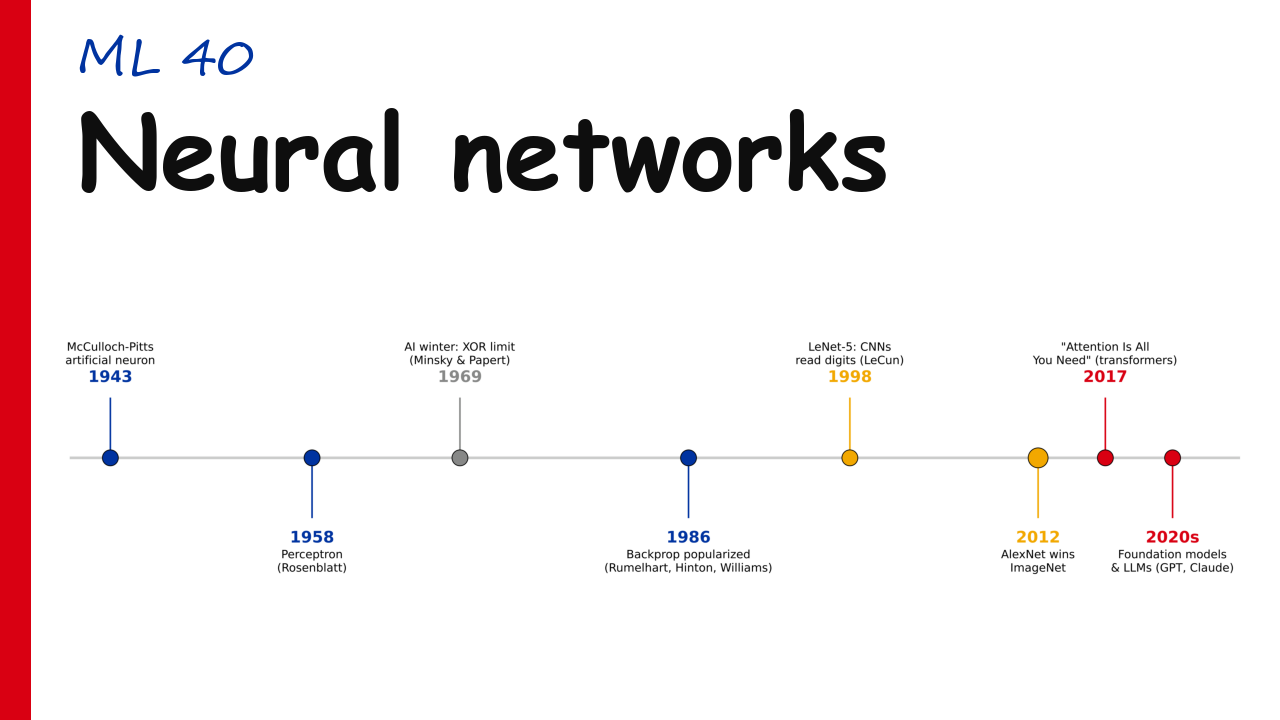
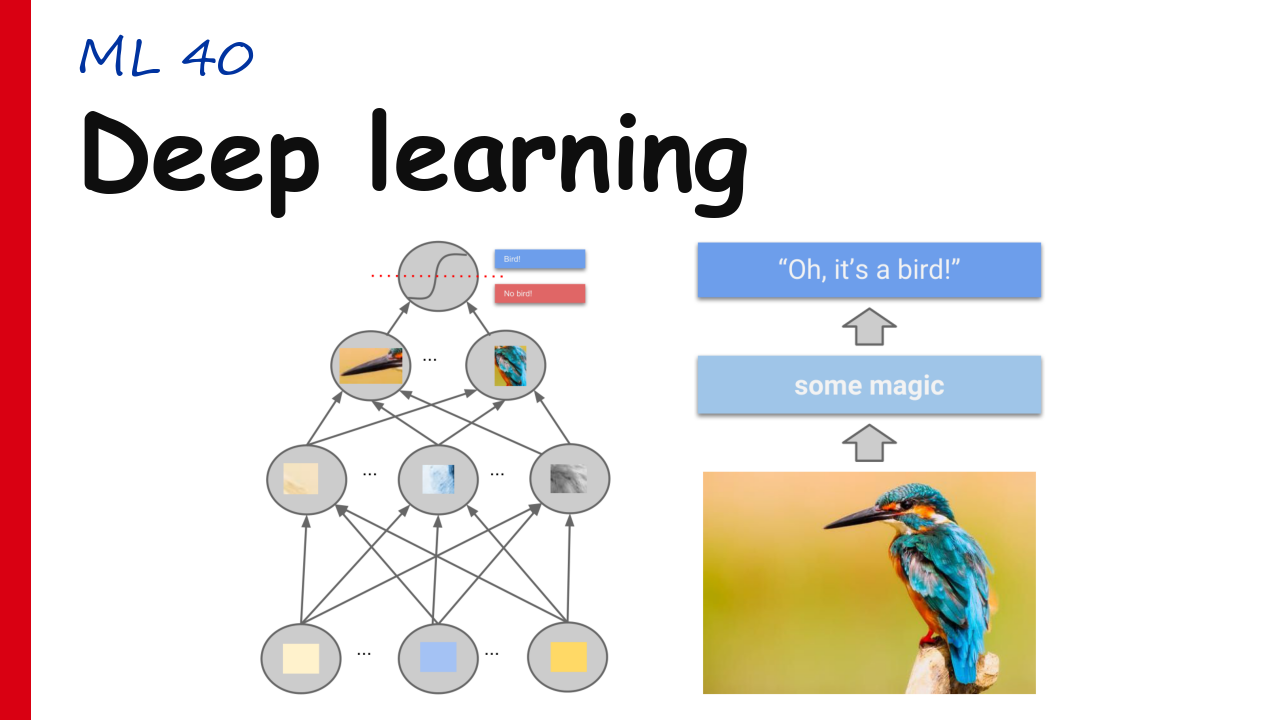
Rework ML40 and ML41 thumbnails from the LMU slides, retitle both
User-requested. ML40 now shows the LMU "image classification with neural
networks" slide (lmu_src/01_introduction.pdf page 7, the last build of a
four-page animation): the layered network with bird-part detectors next to
the photo -> "some magic" -> "Oh, it's a bird!" column. Title "Deep
learning".

ML41 now shows a plain MLP diagram from the same LMU source
(02_multilayer-FNNs.pdf page 6), with the worked input vector and footer
cropped off. Title "From neuron to network".

split_figure_panels.py gains --page, since borrowed slide decks keep their
figures past page 1. The previous timeline and two-moons assets stay in
thumbnails/assets/ as documented alternatives.

diff --git a/scripts/make_thumbnails_final.py b/scripts/make_thumbnails_final.py
@@ -1369,35 +1369,39 @@ def draw_ml39_photo_map(fig, bbox):
 
 
 def draw_ml40_history(fig, bbox):
-    """ML 40 / neural-networks intro + history (lecture): the chapter's own
-    timeline fig/dl_history.pdf - McCulloch-Pitts 1943 through perceptron, the
-    XOR winter, backprop, LeNet, AlexNet, attention, to foundation models - with
-    its title band and year axis cropped off (split_figure_panels.py,
-    --crop-top/--crop-bottom 0.10).
+    """ML 40 / neural-networks intro + history (lecture): the LMU "image
+    classification with neural networks" slide the user picked
+    (lmu_src/01_introduction.pdf, page 7 - the last build of a four-page
+    animation, the one with image patches in every node). The layered network
+    whose units detect ever larger bird parts, next to the photo -> "some
+    magic" -> "Oh, it's a bird!" column: the representation-learning idea the
+    lecture opens with.
 
-    At aspect ~5 it is width-limited well before max_h binds, so it fills the
-    band edge to edge as a ribbon ~0.33 tall. The small event labels do not
-    survive thumbnail scale, but the coloured dots and bold years carry it;
-    lift centres the ribbon in the space under the title."""
-    _draw_image_row(fig, bbox, ["ml40_history_1.png"], max_h=0.60, lift=0.15)
+    Slide title, the Bengio quote and the footer are cropped off
+    (split_figure_panels.py --page 7 --crop-top 0.34 --crop-bottom 0.06); the
+    gutter scan then splits the two illustrations. Both are portrait (~0.77),
+    so the row is height-bound and cannot fill the band - pushed as tall as the
+    title allows instead.
+
+    Previous choice kept as an asset: ml40_history_1.png, the chapter's own
+    1943-2020s timeline (fig/dl_history.pdf)."""
+    _draw_image_row(fig, bbox, ["ml40_lmu_1.png", "ml40_lmu_2.png"],
+                    gap=0.06, max_h=0.64, lift=0.0)
 
 
 def draw_ml41_hidden_layers(fig, bbox):
-    """ML 41 / from one neuron to a multilayer net (lecture): the chapter's own
-    two-moons pair, fig/two_moons_logreg.pdf and fig/two_moons_mlp.pdf - one
-    straight cut that cannot separate the moons next to the bent boundary a
-    hidden layer buys. That contrast is the lecture's whole argument, and it is
-    already in flag red and blue. Panel titles (which carry train accuracy)
-    cropped off with split_figure_panels.py --crop-top 0.14.
+    """ML 41 / from one neuron to a multilayer net (lecture): a plain MLP
+    diagram - three inputs, four hidden layers, three outputs - from the LMU
+    deck the chapter draws on (lmu_src/02_multilayer-FNNs.pdf, page 6), picked
+    by the user so ML40 and ML41 share one visual source. Slide title cropped
+    above; the worked input vector x = (7, 1, -4) and the footer cropped below
+    (split_figure_panels.py --page 6 --crop-top 0.10 --crop-bottom 0.36), so
+    only the network and its Input/Hidden/Output labels remain.
 
-    Two ~1.55-aspect panels sum wide enough that the row is width-limited
-    (fh ~0.51) and fills the band edge to edge - unlike ML37's near-square pair.
-    The Welch Labs frames the deck also uses were passed over: black-background
-    video stills clash with the white thumbnail."""
-    _draw_image_row(fig, bbox,
-                    ["ml41_two_moons_logreg_1.png", "ml41_two_moons_mlp_1.png"],
-                    captions=["logistic regression", "MLP"],
-                    gap=0.03, max_h=0.60, lift=0.04)
+    Single ~2:1 hero, height-bound, no caption. Previous choice kept as assets:
+    ml41_two_moons_logreg_1.png / ml41_two_moons_mlp_1.png, the chapter's own
+    straight-cut vs bent-boundary pair."""
+    _draw_image_row(fig, bbox, ["ml41_lmu_mlp_1.png"], max_h=0.64, lift=0.0)
 
 
 # ---------- lesson configs ----------
@@ -1700,23 +1704,23 @@ LESSONS = [
         "bar_color": UNSUP_BAR,
         "chart_bbox": (0.05, 0.03, 0.92, 0.46), "out": "ML39.png",
     },
-    # ML 40 - neural networks intro + history (lecture): the 1943-2020s deep
-    # learning timeline. First lesson of the neural-networks block.
+    # ML 40 - neural networks intro + history (lecture): the LMU "Oh, it's a
+    # bird!" representation-learning slide. First lesson of the NN block.
     {
-        "tag": "ML 40", "title": "Neural networks",
+        "tag": "ML 40", "title": "Deep learning",
         "title_size": 50, "title_max": 74, "title_latin": True,
         "draw": draw_ml40_history,
         "bar_color": DL_BAR,
-        "chart_bbox": (0.05, 0.05, 0.92, 0.46), "out": "ML40.png",
+        "chart_bbox": (0.05, 0.03, 0.92, 0.46), "out": "ML40.png",
     },
-    # ML 41 - one neuron to a multilayer network (lecture): logistic regression's
-    # straight cut vs an MLP's bent boundary on two moons.
+    # ML 41 - one neuron to a multilayer network (lecture): a plain LMU MLP
+    # diagram, same source as ML40's slide.
     {
-        "tag": "ML 41", "title": "Hidden layers",
+        "tag": "ML 41", "title": "From neuron to network",
         "title_size": 50, "title_max": 74, "title_latin": True,
         "draw": draw_ml41_hidden_layers,
         "bar_color": DL_BAR,
-        "chart_bbox": (0.05, 0.05, 0.92, 0.46), "out": "ML41.png",
+        "chart_bbox": (0.05, 0.03, 0.92, 0.46), "out": "ML41.png",
     },
 ]
 

diff --git a/scripts/non_essential/split_figure_panels.py b/scripts/non_essential/split_figure_panels.py
@@ -21,7 +21,7 @@ that finds no panels raises.
 
 Usage:
   python scripts/non_essential/split_figure_panels.py <figure> <out-prefix> \
-      [--dpi 300] [--crop-top F] [--crop-bottom F] [--keep 1,2,3] \
+      [--dpi 300] [--page N] [--crop-top F] [--crop-bottom F] [--keep 1,2,3] \
       [--white 250] [--gutter-tol 0] [--min-width-frac 0.02] [--pad 6]
 
 Example (first three panels of the eigen-garments row, titles dropped):
@@ -59,7 +59,7 @@ log = logging.getLogger(__name__)
 RASTER_SUFFIXES = {".png", ".jpg", ".jpeg", ".webp"}
 
 
-def render(src: Path, dpi: int) -> np.ndarray:
+def render(src: Path, dpi: int, page: int = 1) -> np.ndarray:
     """Load the figure as RGB. Vector figures are rasterized at --dpi; borrowed
     assets that are already raster (fig/borrowed/**) are read as-is, since there
     is no resolution to choose - upscaling them would only invent pixels."""
@@ -68,11 +68,11 @@ def render(src: Path, dpi: int) -> np.ndarray:
         log.info(f"Loaded raster {src.name} -> {arr.shape[1]}x{arr.shape[0]}px")
         return arr
     doc = fitz.open(str(src))
-    if doc.page_count == 0:
-        raise ValueError(f"{src} has no pages")
-    pix = doc.load_page(0).get_pixmap(dpi=dpi, alpha=False)
+    if not 1 <= page <= doc.page_count:
+        raise ValueError(f"{src} has {doc.page_count} pages, --page {page} is out of range")
+    pix = doc.load_page(page - 1).get_pixmap(dpi=dpi, alpha=False)
     arr = np.frombuffer(pix.samples, dtype=np.uint8).reshape(pix.height, pix.width, 3)
-    log.info(f"Rendered {src.name} at {dpi} dpi -> {pix.width}x{pix.height}px")
+    log.info(f"Rendered {src.name} p{page} at {dpi} dpi -> {pix.width}x{pix.height}px")
     return arr.copy()
 
 
@@ -96,6 +96,8 @@ def main() -> None:
     p.add_argument("figure", type=Path, help="figure PDF, or an already-raster PNG/JPG/WEBP")
     p.add_argument("out_prefix", help="e.g. thumbnails/assets/ml36_eigen -> _1.png, _2.png")
     p.add_argument("--dpi", type=int, default=300)
+    p.add_argument("--page", type=int, default=1,
+                   help="1-based PDF page; borrowed slide decks keep figures past page 1")
     p.add_argument("--crop-top", type=float, default=0.0)
     p.add_argument("--crop-bottom", type=float, default=0.0)
     p.add_argument("--keep", default="", help="1-based panel indices, e.g. 1,2,3")
@@ -109,7 +111,7 @@ def main() -> None:
     if not a.figure.exists():
         raise FileNotFoundError(a.figure)
 
-    img = render(a.figure, a.dpi)
+    img = render(a.figure, a.dpi, a.page)
     h, w, _ = img.shape
     top, bot = int(h * a.crop_top), h - int(h * a.crop_bottom)
     if bot - top < 10:

diff --git a/scripts/non_essential/README.md b/scripts/non_essential/README.md
@@ -6,7 +6,7 @@ publishing pipeline. Nothing in `scripts/` imports these.
 | script | what it does | when you would re-run it |
 | --- | --- | --- |
 | `quantize_shrek.py` | Trims the white margins off `ml/09_clustering/img/shrek.webp`, downscales it, and runs the lesson-35 k-means colour quantization at k=4 and k=32 (seed 509), writing the three ML35 thumbnail panels into `thumbnails/assets/`. | Re-run if the source image changes, or to regenerate the ML35 panels at different k values. Prints the original unique-colour count, which is the caption on the first panel — update `draw_ml35_quantization` if it changes. |
-| `split_figure_panels.py` | Splits one multi-panel course figure PDF into a separate PNG per sub-plot, so `_draw_image_row` can size, space and caption each panel itself. Finds the boundaries by scanning for all-white gutter columns instead of taking crop fractions by eye; `--crop-top` drops the sub-plot title band first, `--keep` picks which panels to write. | Whenever a thumbnail wants some of the panels out of a figure that holds a row of them (used for ML36's eigen-garments, ML37's mammoth, and ML38's Novembre 2008 panel a, where `--crop-bottom` drops the sub-panels below and a raised `--min-width-frac` discards the tiny "a" label). If it finds the wrong number of panels, adjust `--gutter-tol` (how many stray ink pixels a column may hold and still count as a gutter), `--white`, or `--min-width-frac`. Reads figure PDFs and already-raster borrowed PNGs alike. |
+| `split_figure_panels.py` | Splits one multi-panel course figure PDF into a separate PNG per sub-plot, so `_draw_image_row` can size, space and caption each panel itself. Finds the boundaries by scanning for all-white gutter columns instead of taking crop fractions by eye; `--crop-top` drops the sub-plot title band first, `--keep` picks which panels to write. | Whenever a thumbnail wants some of the panels out of a figure that holds a row of them (used for ML36's eigen-garments, ML37's mammoth, and ML38's Novembre 2008 panel a, where `--crop-bottom` drops the sub-panels below and a raised `--min-width-frac` discards the tiny "a" label). If it finds the wrong number of panels, adjust `--gutter-tol` (how many stray ink pixels a column may hold and still count as a gutter), `--white`, or `--min-width-frac`. Reads figure PDFs and already-raster borrowed PNGs alike; `--page` picks a page past the first, for borrowed slide decks like `lmu_src/*.pdf` (ML40 page 7, ML41 page 6). |
 | `photo_scatter_ml39.py` | Renders the ML39 photo map: the lesson-39 practical's 92 demo photos drawn at their own projected positions instead of as coloured dots. Reads the coordinates and the base64 thumbnails straight out of the notebook's generated Plotly page (`out/demo_photos_map_{pca,umap}.html`), so nothing is recomputed and no umap-learn install is needed. `--figsize` stretches only the positions, never the images, which is how the projection is fitted to a 16:9 thumbnail band. | Re-run if the practical regenerates its maps, or to try `--map umap` / a different `--zoom`. |
 
 Added 2026-08-31 (`quantize_shrek.py`), 2026-09-03 (`split_figure_panels.py`), 2026-09-12 (`photo_scatter_ml39.py`).
